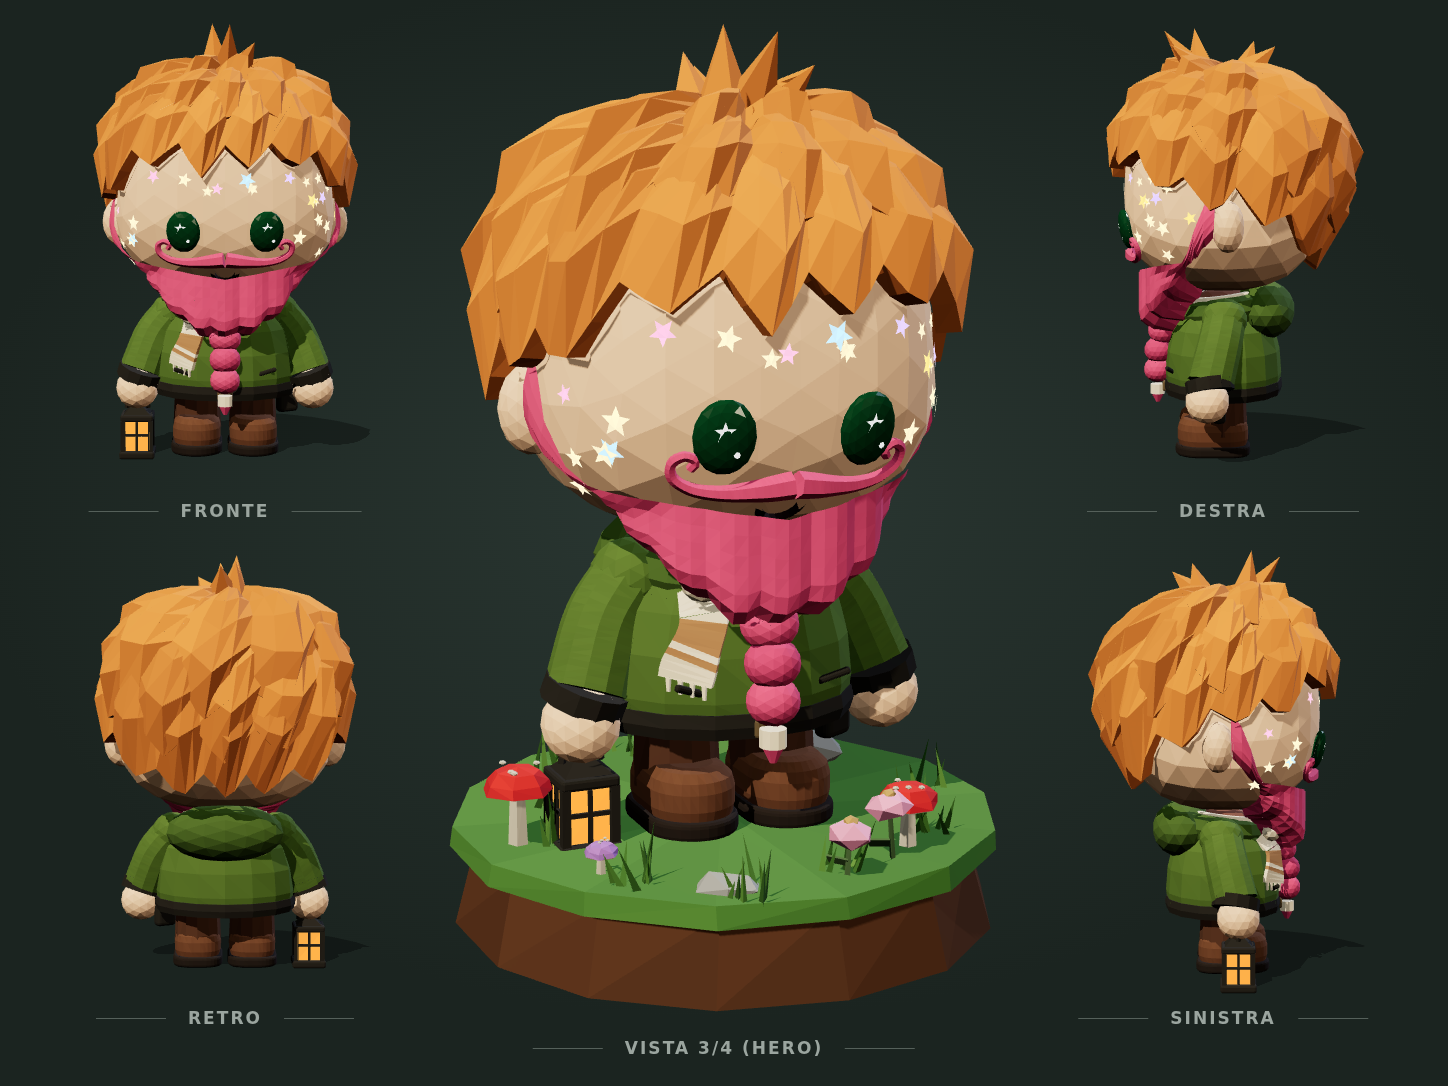
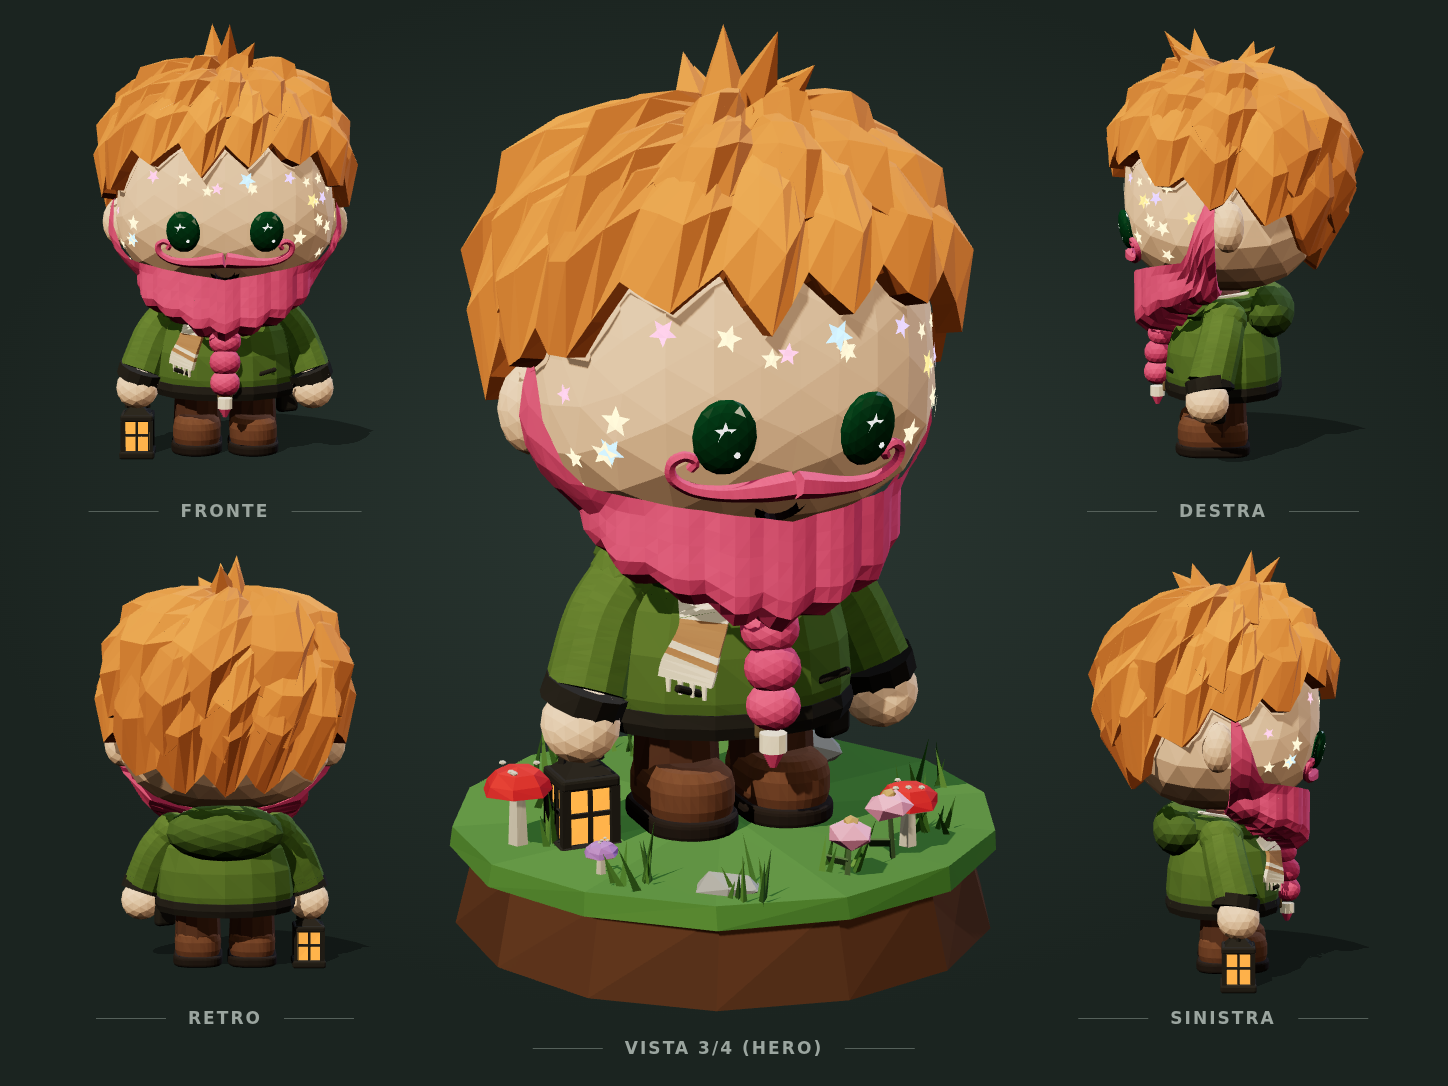
Style prototype v2: beard continues on the sides, shorter towards the ears
Each slice hangs below its own jaw line (found where the skin recedes) by a
length that shrinks from the chin to the ear, so the sides get the same
locked volume as the front, just shorter; slightly fuller on the cheeks.

Claude-Session: https://claude.ai/code/session_01U6u5RojYrwYjZd8sSRU7em

diff --git a/Prototype-3d/src/proto/custodeV2.ts b/Prototype-3d/src/proto/custodeV2.ts
@@ -289,8 +289,14 @@ function beardSlices(): BeardSlice[] {
     const yTop = au < 0.78 ? lerp(0.588, 0.63, au / 0.78) : lerp(0.63, 0.8, smooth(0.78, 1, au)); // lungo la mandibola, poi su come basetta
     // orlo: diagonale da sotto l'orecchio al mento, con la punta di ogni ciocca
     // lineare nella profondità (cos θ): di profilo l'orlo è una diagonale dritta dall'orecchio al mento
-    const yHem = lerp(0.543 - BEARD_DROP, 0.665, (1 - Math.cos(th)) / (1 - Math.cos(BEARD_TH * DEG))) - 0.022 * len * tooth * (1 - 0.6 * au);
-    const rFloor = skinR(th, 0.6) * (0.985 - 0.04 * au) + 0.028 * (1 - au * au); // un po' bombata davanti
+    // orlo: la barba continua anche sui lati, sotto la linea della mandibola,
+    // sempre più corta andando verso l'orecchio (davanti è la più lunga)
+    const r6 = skinR(th, 0.6);
+    let jaw = 0.6;
+    while (jaw > 0.45 && skinR(th, jaw) > r6 * 0.82) jaw -= 0.004; // dove la pelle rientra sotto la mascella
+    const length = lerp(BEARD_DROP + 0.035, 0.035, Math.pow(au, 1.1));
+    const yHem = Math.min(jaw - length, yTop - 0.045) - 0.022 * len * tooth * (1 - 0.4 * au);
+    const rFloor = r6 * (0.985 - 0.04 * au) + 0.028 * (1 - au * au) + 0.012; // un po' bombata davanti, piena anche sui lati
     out.push({ th, rad: new THREE.Vector3(Math.sin(th), 0, Math.cos(th)), yTop, yHem, rFloor, rIn: rFloor * 0.45, tone, ridge: Math.sin(Math.PI * w) });
   }
   return out;
@@ -299,7 +305,7 @@ function beardSlices(): BeardSlice[] {
 /** Punto esterno della fetta all'altezza v (0 orlo, 1 bordo superiore). */
 function beardOuter(sl: BeardSlice, v: number): THREE.Vector3 {
   const y = lerp(sl.yHem, sl.yTop, Math.pow(v, 1.15));
-  const thin = 0.014 * (0.35 + 0.65 * smooth(0, 0.25, 1 - v)) + 0.008 * sl.ridge * (1 - v);
+  const thin = 0.02 * (0.35 + 0.65 * smooth(0, 0.25, 1 - v)) + 0.008 * sl.ridge * (1 - v);
   let r = Math.max(skinR(sl.th, y) + thin, sl.rFloor + 0.006 * sl.ridge);
   // l'orlo si arrotonda verso l'interno
   const ROUND = 0.055;
